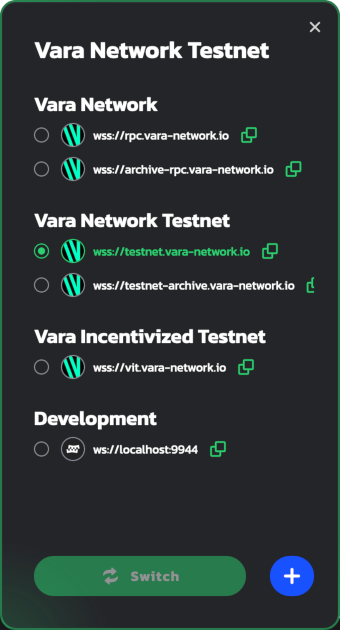
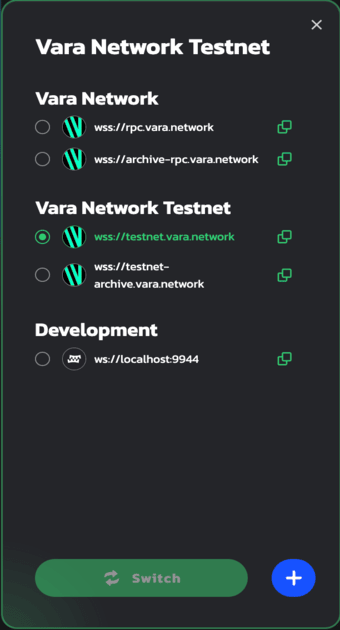
Some correction (#214)

diff --git a/docs/02-basic/01-introduction/program-state.md b/docs/02-basic/01-introduction/program-state.md
@@ -13,6 +13,6 @@ Program memory is organized in pages of 64KB according to the Wasm memory model.
 
 Programs running in Vara networks don’t use a shared storage but rather their full state is persisted which ensures much less API surface for blockchain context. It avoids domain-specific language features as well as allows using much more complex language constructs — persisted boxed closures, futures compositors, etc.
 
-The Gear Protocol uses clever memory virtualization techniques (despite vanilla Wasm does not), memory allocation and deallocation are first-class syscalls of the protocol. Memory access is also tracked and only required pages are loaded/stored. That allows heap-allocated frames of smart contracts stored in the blockchain’s state (typically found in futures and their compositors) to be seamlessly persisted and invoked when needed, preserving their state upon request.
+The Vara network uses clever memory virtualization techniques (despite vanilla Wasm does not), memory allocation and deallocation are first-class syscalls of the protocol. Memory access is also tracked and only required pages are loaded/stored. That allows heap-allocated frames of smart contracts stored in the blockchain’s state (typically found in futures and their compositors) to be seamlessly persisted and invoked when needed, preserving their state upon request.
 
 Gear instance holds individual memory space per program and guarantees its persistence. A program can read and write only within its own memory space and has no access to the memory space of other programs. Individual memory space is reserved for a program during its initialization and does not require an additional fee (it is included in the program's initialization fee).

diff --git a/i18n/zh-cn/docusaurus-plugin-content-docs/current/00-scd/02-substrate-id/key-information.md b/i18n/zh-cn/docusaurus-plugin-content-docs/current/00-scd/02-substrate-id/key-information.md
@@ -5,7 +5,7 @@ slug: /substrate-id/key-information
 hide_table_of_contents: true
 ---
 
-一个账户代表了一个身份，可以是个人或一个能够进行交易或持有资金的组织。用户可以上传智能合约，并通过区块链网络上的交易与其进行互动，而这些区块链网络是基于 Gear Protocol 构建的。用户需要连接一个 Substrate 账户来实现这一点。Gear Idea 可以与连接的基于 Gear 网络中的 Substrate 账户一起作用。这个账户还可以在任何 DotSama 生态系统的网络中持有资金并进行交易，点击了解[更多](https://docs.substrate.io/fundamentals/accounts-addresses-keys/)。
+一个账户代表了一个身份，可以是个人或一个能够进行交易或持有资金的组织。用户可以上传智能合约，并通过区块链网络上的交易与其进行互动，而这些区块链网络是基于 Vara network 构建的。用户需要连接一个 Substrate 账户来实现这一点。Gear Idea 可以与连接的基于 Gear 网络中的 Substrate 账户一起作用。这个账户还可以在任何 DotSama 生态系统的网络中持有资金并进行交易，点击了解[更多](https://docs.substrate.io/fundamentals/accounts-addresses-keys/)。
 
 - 地址是账户的公共部分。它就像一个你可以与他人分享以发送和接收交易的位置。
 - 密钥是账户的私有部分。它允许你作为账户所有者访问你的地址。只有使用你的私钥（助记词、种子或带有密码的账户 JSON 文件）才能访问你的账户。

diff --git a/docs/00-scd/14-async-communication/async-communications.md b/docs/00-scd/14-async-communication/async-communications.md
@@ -5,9 +5,9 @@ slug: /async-communication/async-communications
 hide_table_of_contents: true
 ---
 
-This lesson focuses on the Actor model for message-passing communications, a key and distinguishing feature of the Gear Protocol.
+This lesson focuses on the Actor model for message-passing communications, a key and distinguishing feature of the Vara network.
 
-One of the key and distinguished features of the Gear Protocol is the Actor model for message-passing communications. Gear Protocol leverages the Actor model for message-passing communication, allowing parallel computation and asynchronous messaging to ensure faster processing times. The development structure provides developers with immense flexibility when building complex dApps.
+One of the key and distinguished features of the Vara network is the Actor model for message-passing communications. Vara network leverages the Actor model for message-passing communication, allowing parallel computation and asynchronous messaging to ensure faster processing times. The development structure provides developers with immense flexibility when building complex dApps.
 
 If a program sends an asynchronous message to another program, it needs to wait for the reply from that program before it can proceed to the next operation.
 

diff --git a/docs/00-scd/14-async-communication/distributed-transactions.md b/docs/00-scd/14-async-communication/distributed-transactions.md
@@ -5,9 +5,9 @@ slug: /async-communication/distributed-transactions
 hide_table_of_contents: true
 ---
 
-This lesson discusses the interactions between programs in the Gear Protocol, which involve distributed transactions across actors with their respective states.
+This lesson discusses the interactions between programs in the Vara network, which involve distributed transactions across actors with their respective states.
 
-Programs in the Gear Protocol interact and create distributed transactions involving processes across actors and their respective states. In our case, operations occur across actors and their states. The distributed transactions must have the following features:
+Programs in the Vara network interact and create distributed transactions involving processes across actors and their respective states. In our case, operations occur across actors and their states. The distributed transactions must have the following features:
 
 - **Atomicity**: All data changes are treated as a single operation, i.e., all the modifications are made or none.
 - **Consistency**: This property implies the data state is consistent when a transaction begins and ends.

diff --git a/i18n/zh-cn/docusaurus-plugin-content-docs/current/00-scd/14-async-communication/async-communications.md b/i18n/zh-cn/docusaurus-plugin-content-docs/current/00-scd/14-async-communication/async-communications.md
@@ -5,9 +5,9 @@ slug: /async-communication/async-communications
 hide_table_of_contents: true
 ---
 
-本课关注消息传递通信的 Actor 模型，这是 Gear Protocol 的一个关键和独特特性。
+本课关注消息传递通信的 Actor 模型，这是 Vara network 的一个关键和独特特性。
 
-Gear Protocol 的一个关键和独特特性是使用 Actor 模型进行消息传递通信。 Gear Protocol 利用 Actor 模型进行消息传递通信，允许并行计算和异步消息传递，以确保更快的处理时间。这种开发结构为开发人员构建复杂的 dApps 提供了极大的灵活性。
+Vara network 的一个关键和独特特性是使用 Actor 模型进行消息传递通信。 Vara network 利用 Actor 模型进行消息传递通信，允许并行计算和异步消息传递，以确保更快的处理时间。这种开发结构为开发人员构建复杂的 dApps 提供了极大的灵活性。
 
 如果一个程序向另一个程序发送异步消息，它需要等待来自该程序的回复，然后才能继续进行下一项操作。
 

diff --git a/i18n/zh-cn/docusaurus-plugin-content-docs/current/00-scd/14-async-communication/distributed-transactions.md b/i18n/zh-cn/docusaurus-plugin-content-docs/current/00-scd/14-async-communication/distributed-transactions.md
@@ -5,9 +5,9 @@ slug: /async-communication/distributed-transactions
 hide_table_of_contents: true
 ---
 
-本课讨论了 Gear Protocol 中程序之间的交互，涉及到跨 Actor 及其各自状态的分布式交易。
+本课讨论了 Vara network 中程序之间的交互，涉及到跨 Actor 及其各自状态的分布式交易。
 
-Gear Protocol 中的程序进行交互并创建涉及 Actor 及其各自状态的过程的分布式交易。在我们的案例中，操作发生在 Actor 及其状态之间。这些分布式交易必须具备以下特性：
+Vara network 中的程序进行交互并创建涉及 Actor 及其各自状态的过程的分布式交易。在我们的案例中，操作发生在 Actor 及其状态之间。这些分布式交易必须具备以下特性：
 
 - **原子性**：所有数据更改被视为单个操作，即所有修改要么全部完成，要么都不完成。
 - **一致性**：这一属性意味着交易开始和结束时数据状态是一致的。

diff --git a/docs/00-scd/16-auction-automation/automation.md b/docs/00-scd/16-auction-automation/automation.md
@@ -29,7 +29,7 @@ Once all the necessary logic is complete, the auction contract will send itself 
 
 Therefore, by utilizing delayed messages, we can automate the execution of a contract. As long as there is sufficient gas for execution, the contract can self-execute for an unlimited block number. However, if the gas runs out, the execution may be interrupted.
 
-The Gear protocol offers another powerful feature: gas reservation. Developers can reserve gas, which they can later use to send regular or delayed messages.
+The Vara network offers another powerful feature: gas reservation. Developers can reserve gas, which they can later use to send regular or delayed messages.
 
 To reserve a specific amount of gas for future usage, you can use the following function:
 

diff --git a/docs/00-scd/19-auction-signals/system-signals.md b/docs/00-scd/19-auction-signals/system-signals.md
@@ -11,7 +11,7 @@ In Gear programs, there are three common entry points:
 - `handle`
 - `handle_reply`
 
-The Gear Protocol also introduces the `handle_signal` entry point, enabling the system to communicate with programs and notify them (signal) of events related to the program's messages. Only the system (Gear node runtime) can send signal messages to a program.
+The Vara network also introduces the `handle_signal` entry point, enabling the system to communicate with programs and notify them (signal) of events related to the program's messages. Only the system (Gear node runtime) can send signal messages to a program.
 
 The system sends messages to a program in the event of errors during program execution. For example, a program can panic or run out of gas.
 

diff --git a/docs/02-basic/02-program-basics/message-handling.md b/docs/02-basic/02-program-basics/message-handling.md
@@ -5,7 +5,7 @@ hide_table_of_contents: true
 
 # Message Handling
 
-The Gear Protocol allows users and programs to interact with other users and programs via messages. Messages can contain a payload that will be able to be processed during message execution. Interaction with messages is possible thanks to the module [`gstd::msg`](https://docs.gear.rs/gstd/msg/index.html):
+The Vara network allows users and programs to interact with other users and programs via messages. Messages can contain a payload that will be able to be processed during message execution. Interaction with messages is possible thanks to the module [`gstd::msg`](https://docs.gear.rs/gstd/msg/index.html):
 
 ```rust
 use gstd::msg;

diff --git a/i18n/zh-cn/docusaurus-plugin-content-docs/current/00-scd/16-auction-automation/automation.md b/i18n/zh-cn/docusaurus-plugin-content-docs/current/00-scd/16-auction-automation/automation.md
@@ -29,7 +29,7 @@ msg::send_bytes_delayed(program, payload, value, delay)
 
 因此，通过利用延迟消息，我们可以自动执行合约。只要有足够的 gas 进行执行，合约就可以自我执行到无限的区块号。但是，如果 gas 用尽，执行可能会中断。
 
-Gear Protocol 提供了另一个强大的功能：gas 预留。开发者可以预留 gas，以供将来发送常规或延迟消息使用。
+Vara network 提供了另一个强大的功能：gas 预留。开发者可以预留 gas，以供将来发送常规或延迟消息使用。
 
 要为将来的使用预留特定数量的 gas，可以使用以下函数：
 

diff --git a/i18n/zh-cn/docusaurus-plugin-content-docs/current/00-scd/19-auction-signals/system-signals.md b/i18n/zh-cn/docusaurus-plugin-content-docs/current/00-scd/19-auction-signals/system-signals.md
@@ -11,7 +11,7 @@ hide_table_of_contents: true
 - `handle`
 - `handle_reply`
 
-Gear Protocol 还引入了 `handle_signal` 入口点，使系统能够与程序进行通信并通知它们与程序消息相关的事件。只有系统（Gear 节点运行时）可以向程序发送信号消息。
+Vara network 还引入了 `handle_signal` 入口点，使系统能够与程序进行通信并通知它们与程序消息相关的事件。只有系统（Gear 节点运行时）可以向程序发送信号消息。
 
 系统在程序执行期间出现错误时向程序发送消息。例如，程序可能会出现紧急情况或 gas 用尽。
 
